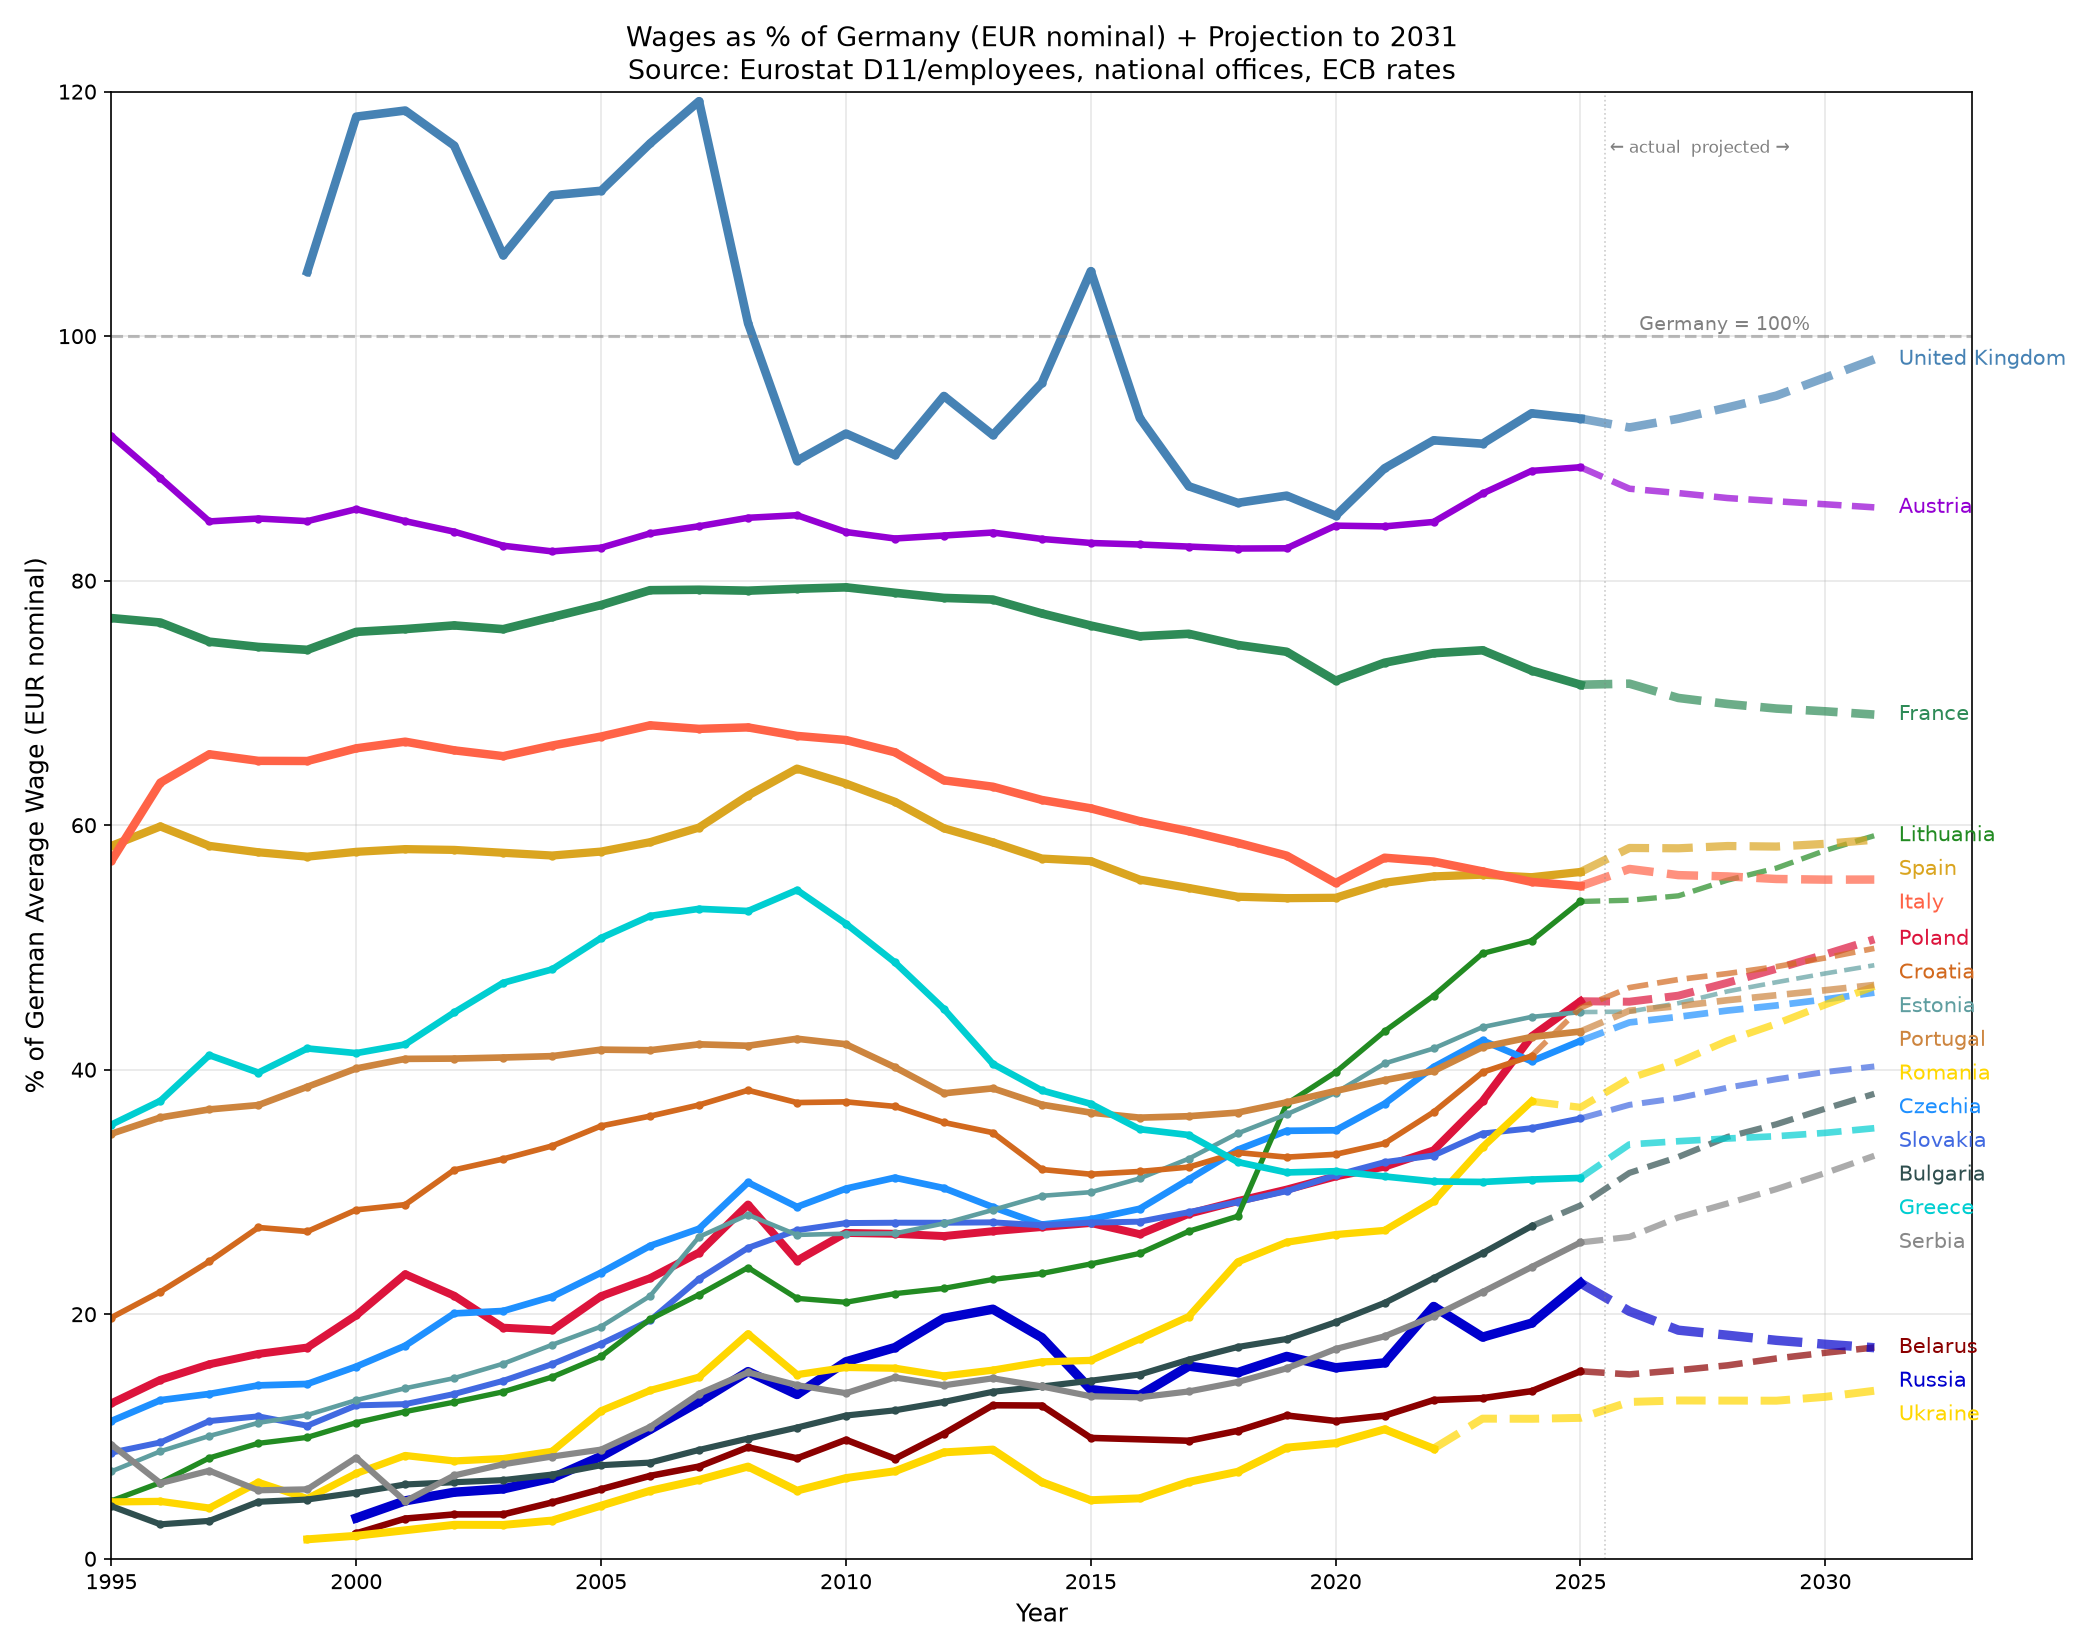
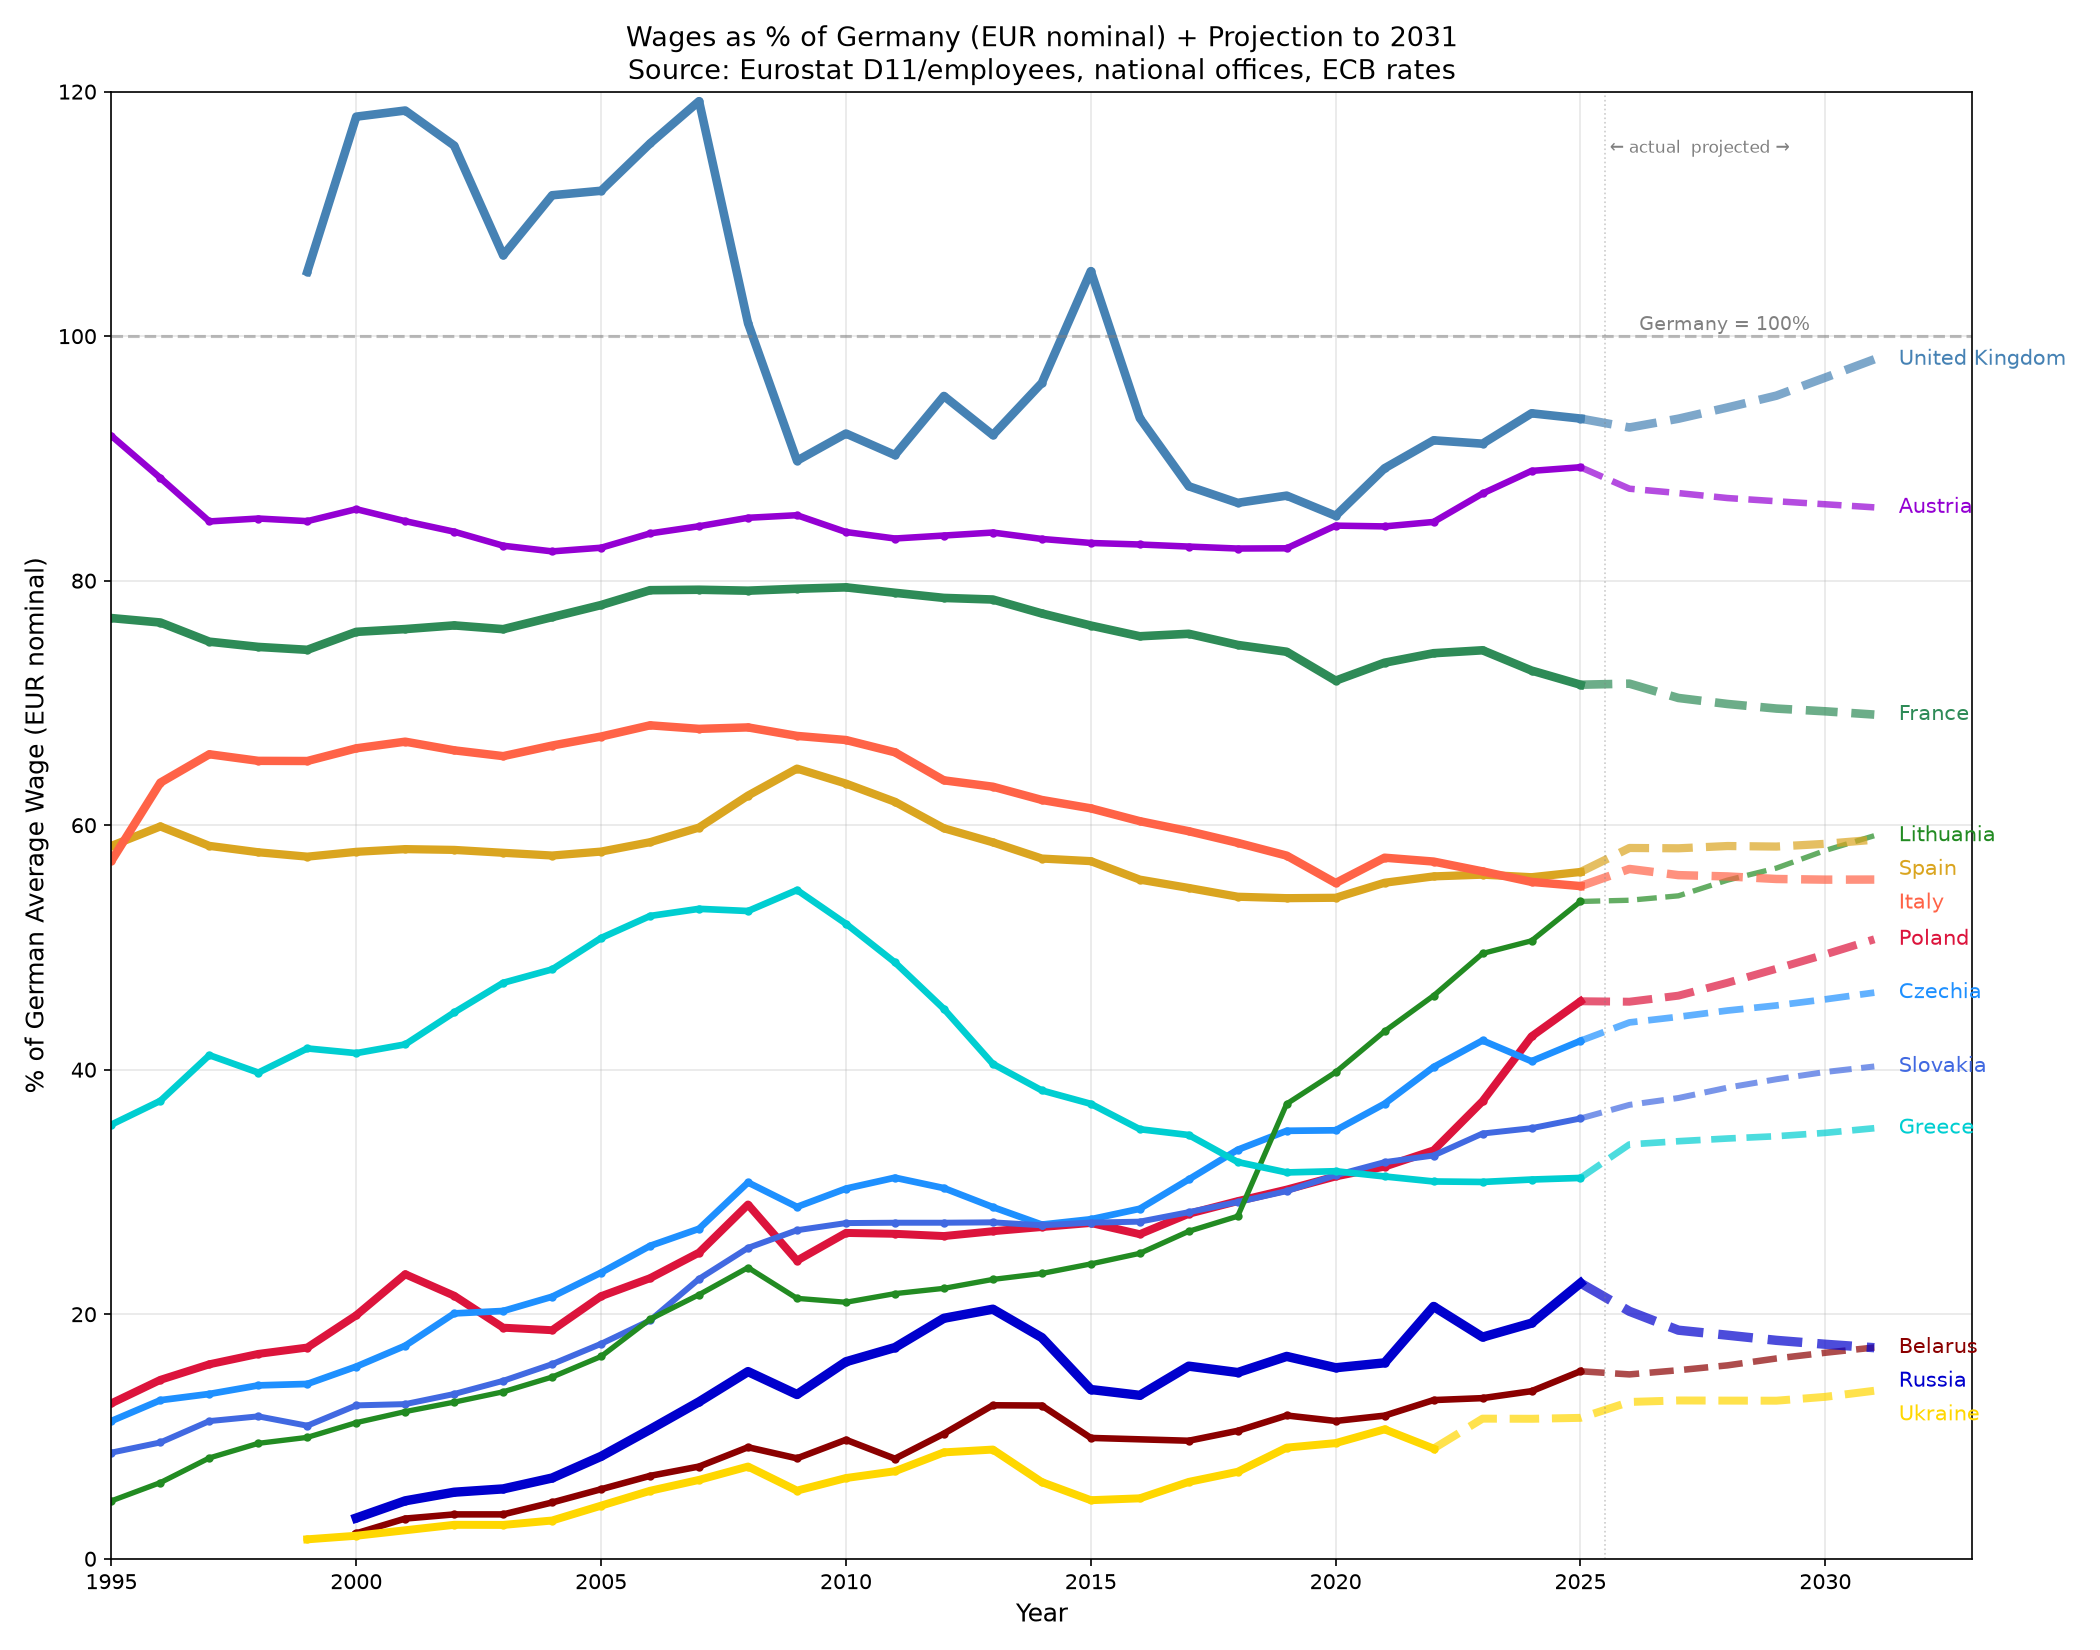
Trim chart 03 to same 13 countries as charts 01/05

diff --git a/src/fetch_all_wages.py b/src/fetch_all_wages.py
@@ -2278,9 +2278,8 @@ def main():
     plot_all_europe(rows, "europe_02_all_europe_eur.png")
 
     plot_ratio_germany(rows, all_rows,
-                       ["AT", "BY", "UA", "RU",
-                        "PL", "CZ", "SK", "LT", "EE", "RO", "BG", "HR",
-                        "PT", "GR", "ES", "RS", "FR", "GB", "IT"],
+                       ["PL", "CZ", "SK", "LT", "AT", "BY", "UA", "RU",
+                        "FR", "GB", "GR", "ES", "IT"],
                        "europe_03_ratio_germany.png")
 
     plot_gdp_wage_scatter(rows, gdp_data, "europe_04_gdp_wage_correlation.png")

diff --git a/src/make_charts.py b/src/make_charts.py
@@ -53,9 +53,8 @@ plot_focus(rows,
 plot_all_europe(rows, "europe_02_all_europe_eur.png")
 
 plot_ratio_germany(rows, all_rows,
-                   ["AT", "BY", "UA", "RU",
-                    "PL", "CZ", "SK", "LT", "EE", "RO", "BG", "HR",
-                    "PT", "GR", "ES", "RS", "FR", "GB", "IT"],
+                   ["PL", "CZ", "SK", "LT", "AT", "BY", "UA", "RU",
+                    "FR", "GB", "GR", "ES", "IT"],
                    "europe_03_ratio_germany.png")
 
 plot_gdp_wage_scatter(rows, gdp_data, "europe_04_gdp_wage_correlation.png")
